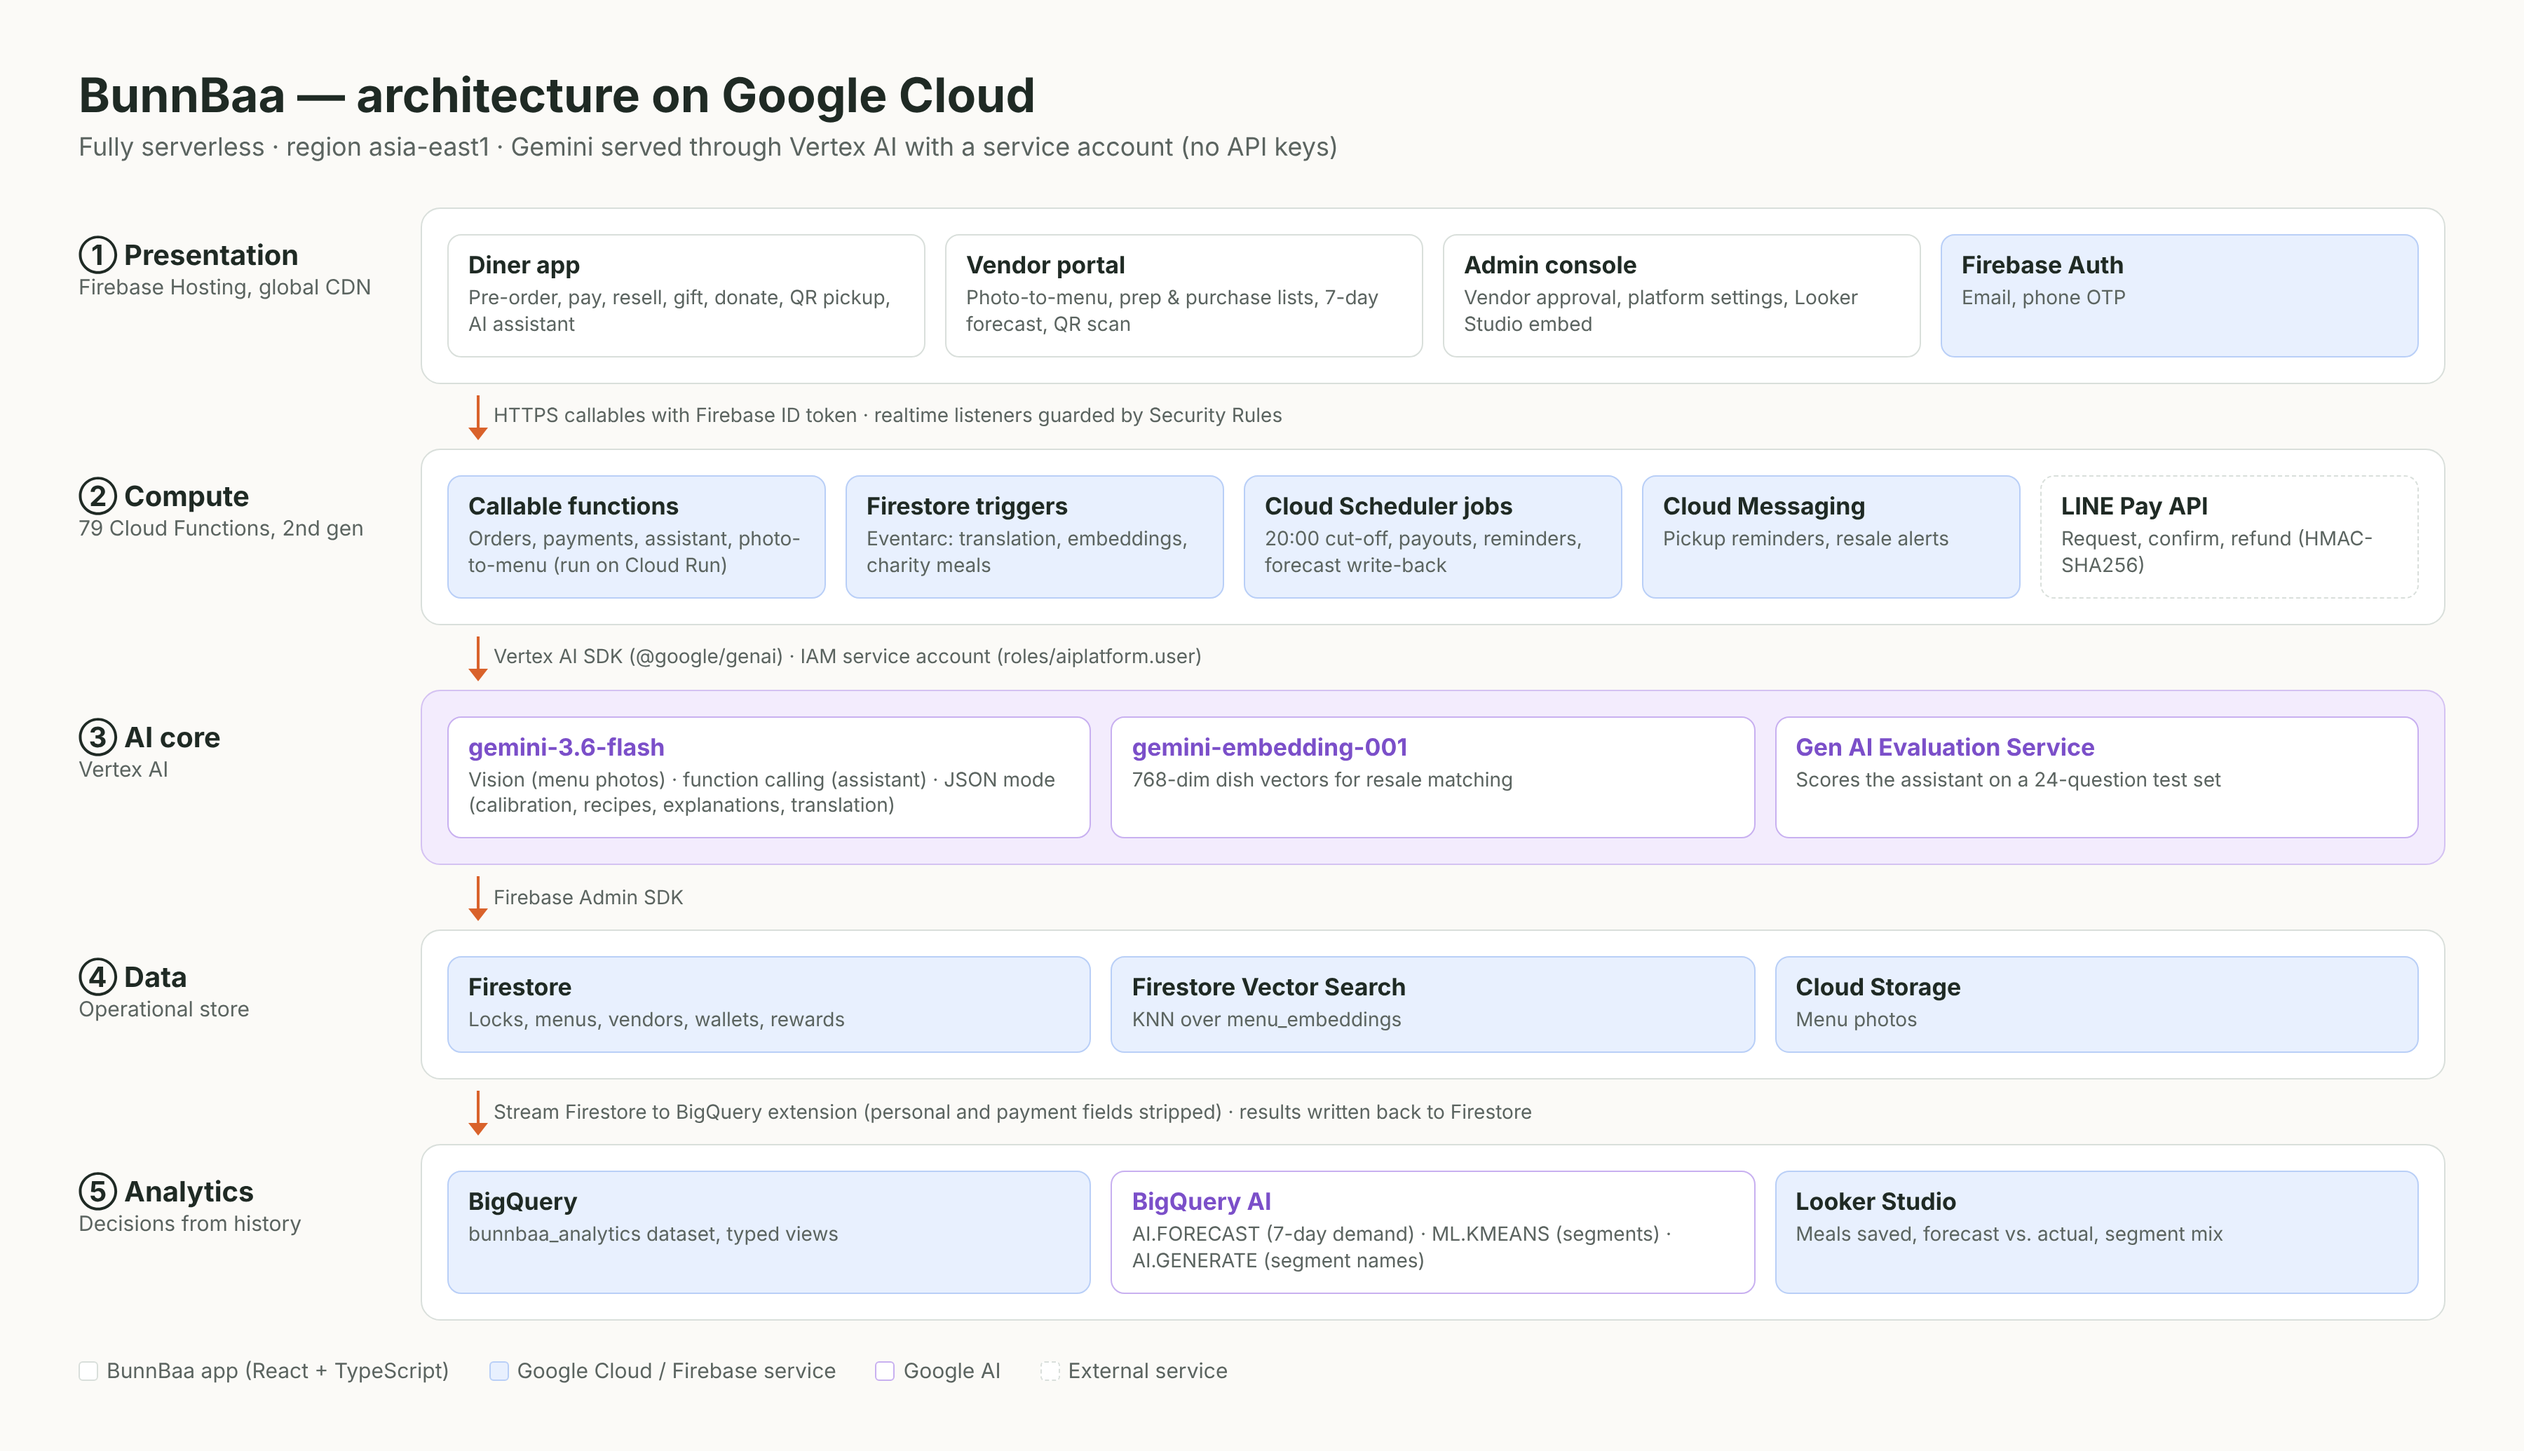
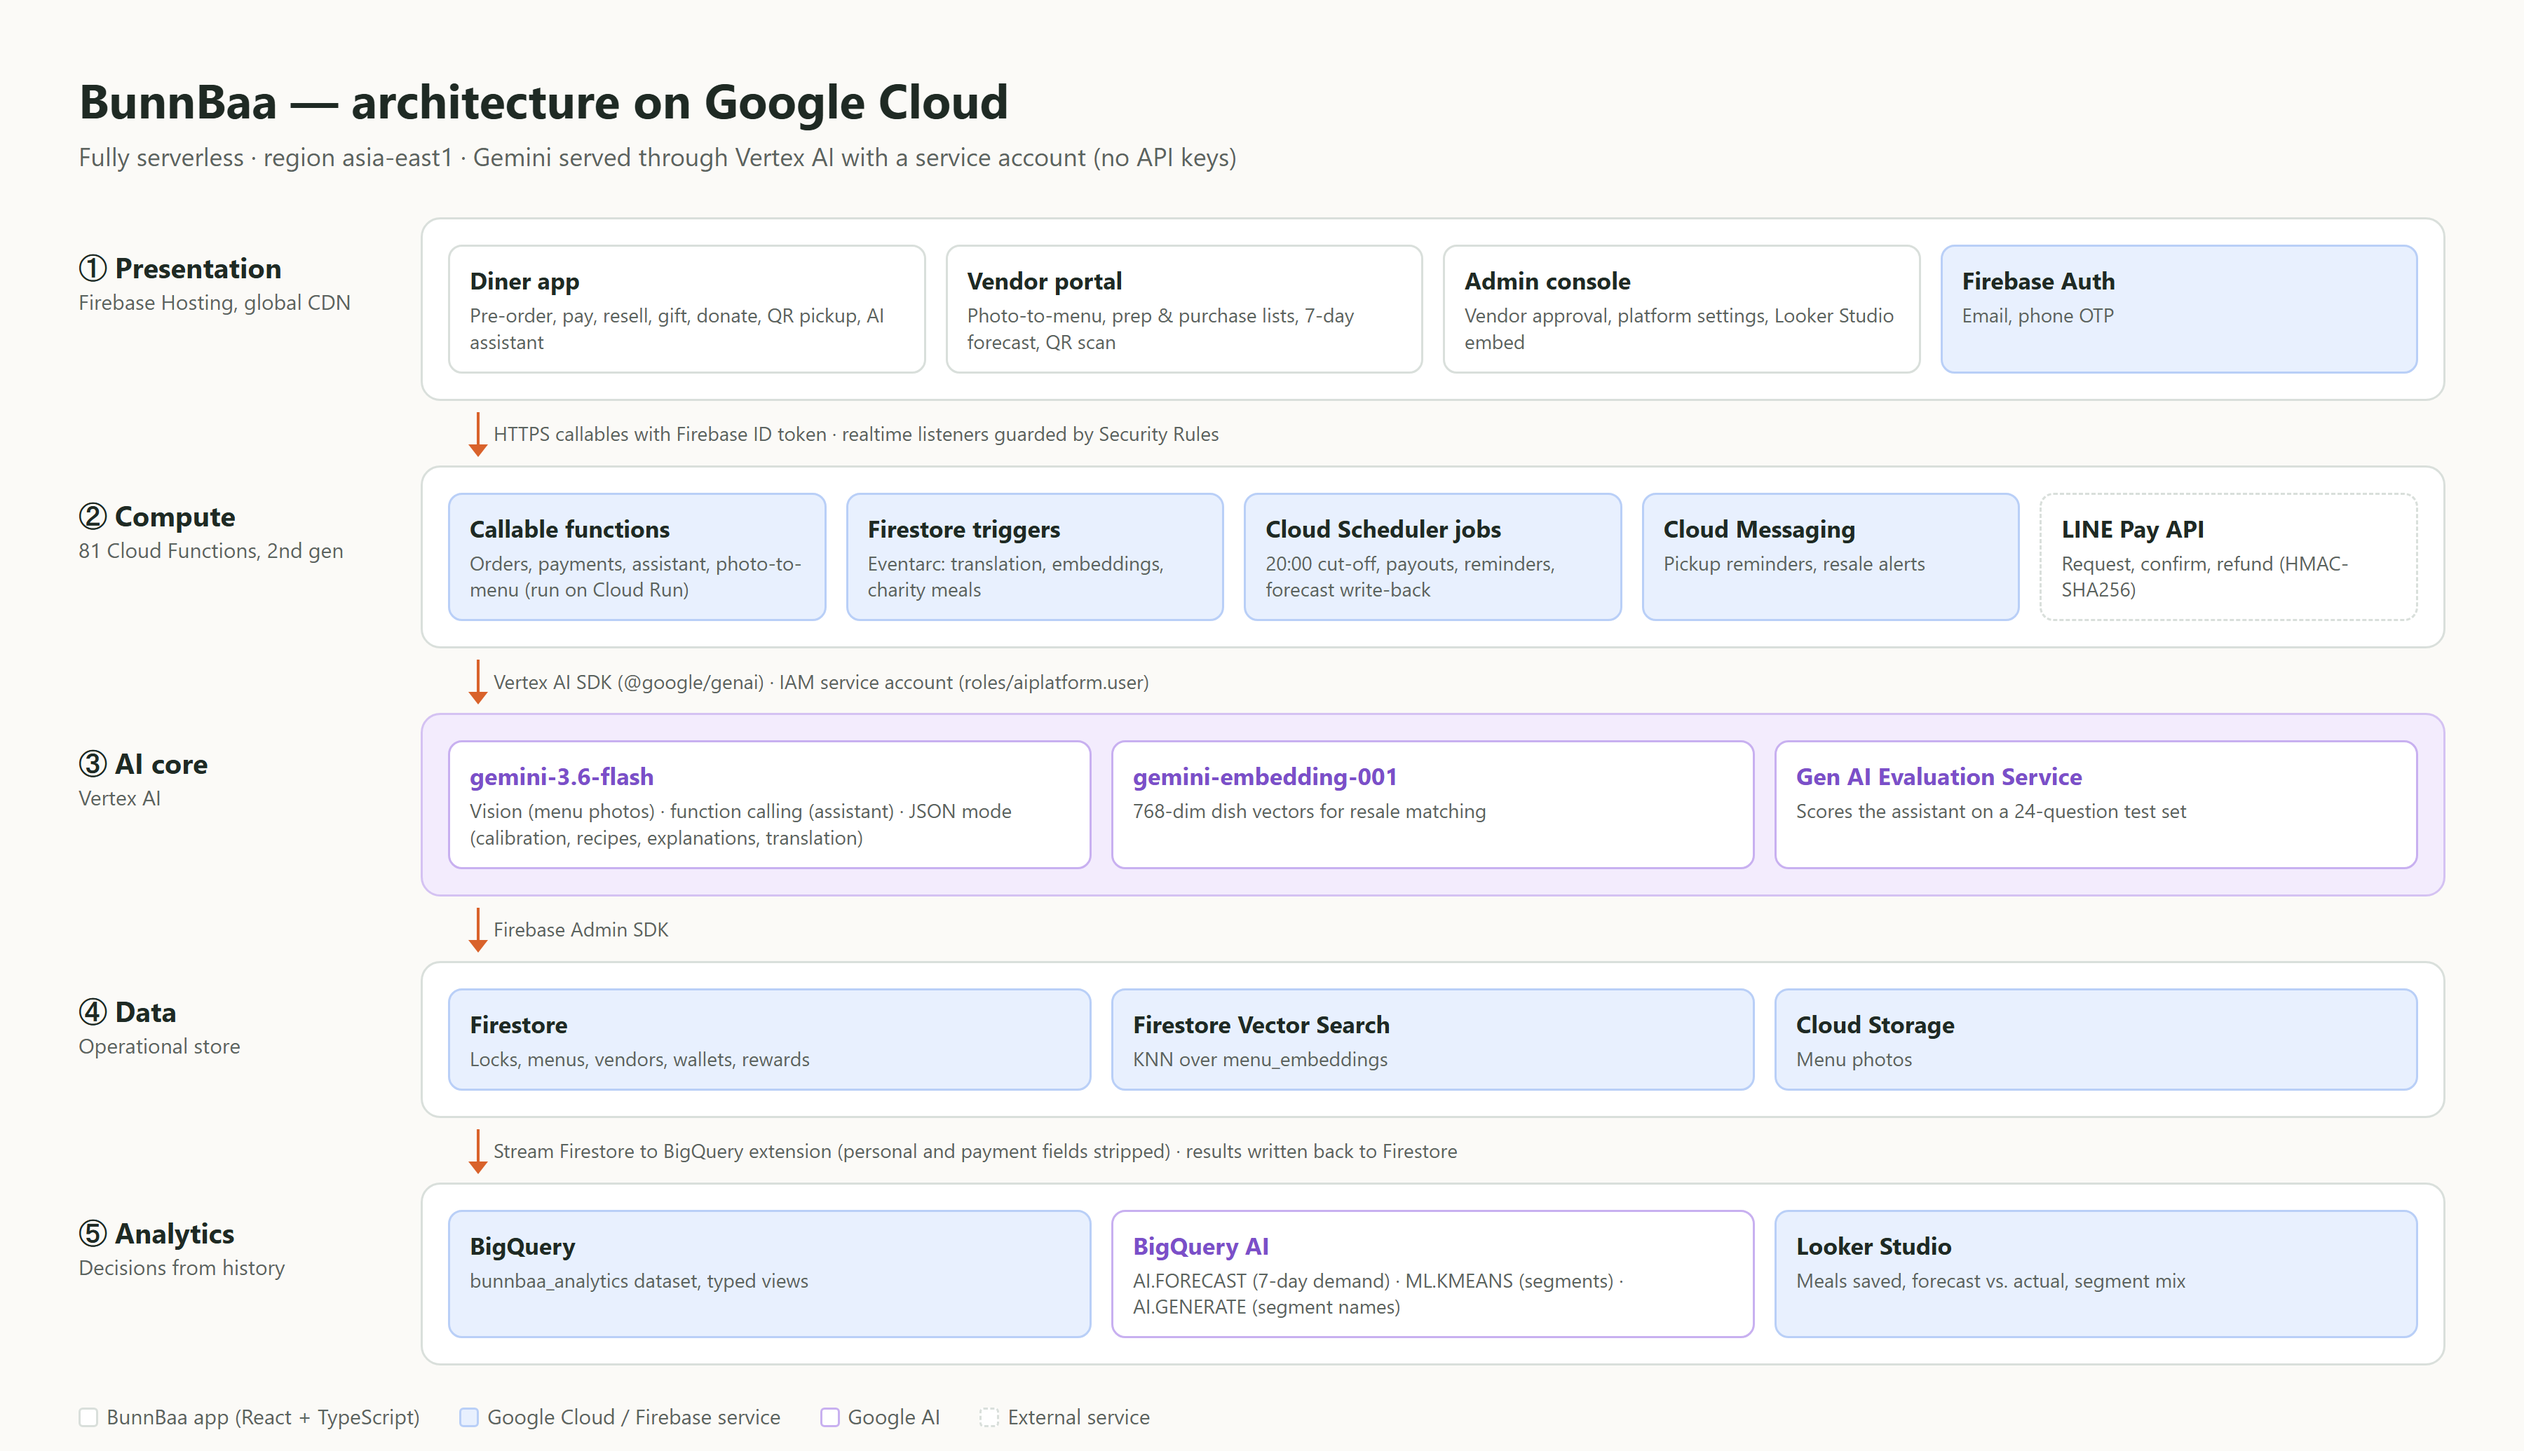
Align submission materials: 81 functions, new screenshots, vendor header fix
- Architecture diagram: Compute layer shows 81 Cloud Functions (was 79)
- README screenshots: pre-order menu with photos and Book, dish details with
  early-bird dates, and the vendor overview with this month's charts loaded
- README: mark the demo1234 accounts as emulator-only so they don't read as
  the live prototype's passwords
- Vendor card header: keep the name at least 12rem wide so the draw progress
  and View vendor link wrap below it on phones instead of squeezing the name
  to one word per line
- Design doc: forecast error now 5.7% WAPE over 16 days, labelled as demo data

diff --git a/assets/architecture.html b/assets/architecture.html
@@ -48,7 +48,7 @@
 
     <div class="arrow"><i></i>HTTPS callables with Firebase ID token · realtime listeners guarded by Security Rules</div>
 
-    <div class="label"><b>② Compute</b><span>79 Cloud Functions, 2nd gen</span></div>
+    <div class="label"><b>② Compute</b><span>81 Cloud Functions, 2nd gen</span></div>
     <div class="layer">
       <div class="box g"><b>Callable functions</b><span>Orders, payments, assistant, photo-to-menu (run on Cloud Run)</span></div>
       <div class="box g"><b>Firestore triggers</b><span>Eventarc: translation, embeddings, charity meals</span></div>

diff --git a/web/src/components/VendorCardHeader.tsx b/web/src/components/VendorCardHeader.tsx
@@ -15,7 +15,7 @@ export default function VendorCardHeader({ vendor, subtitle, reward }: { vendor:
           ? <img src={vendor.cover_image} alt="" loading="lazy" className="w-full h-full object-cover" />
           : <Store className="w-5 h-5 text-secondary-foreground/70" aria-hidden="true" />}
       </span>
-      <div className="min-w-0 flex-1">
+      <div className="min-w-[12rem] flex-1">
         <div className="flex items-center gap-2 flex-wrap">
           <h3 className="font-heading text-xl font-semibold">{name}</h3>
           {vendor.verified && (

diff --git a/README.md b/README.md
@@ -40,11 +40,11 @@ Payments run in the LINE Pay **sandbox**, so no real money moves.
 Diner app (mobile) and vendor portal, taken on the live prototype in English. Vendor and dish names are translated from Chinese by Gemini.
 
 <p>
-  <img src="assets/screenshots/diner-home.png" alt="Diner home" width="190">
-  <img src="assets/screenshots/diner-today.png" alt="Pre-order with early-bird prices" width="190">
+  <img src="assets/screenshots/diner-menu.png" alt="Pre-order: pick a date for 20% off, then Book" width="190">
+  <img src="assets/screenshots/diner-dish.png" alt="Dish details: early-bird price per date, add to cart" width="190">
   <img src="assets/screenshots/diner-my-meals.png" alt="A locked meal: show the pickup code, transfer or gift it" width="190">
 </p>
-<p><img src="assets/screenshots/vendor-dashboard.png" alt="Vendor portal overview" width="780"></p>
+<p><img src="assets/screenshots/vendor-dashboard.png" alt="Vendor portal overview: pickups, prep and this month's profit" width="780"></p>
 
 ## The problem
 
@@ -275,7 +275,7 @@ npm run dev:emulator:reset    # wipe local data and reload the seed data
 ```
 
 To call Vertex AI from the emulator, run `gcloud auth application-default login` first.
-Demo accounts (password `demo1234`): `customer@bunnbaa.test` (diner) and `vendor@bunnbaa.test` (vendor).
+Emulator demo accounts (password `demo1234`, local only; the live prototype uses the passwords in [Try it](#try-it)): `customer@bunnbaa.test` (diner) and `vendor@bunnbaa.test` (vendor).
 
 ### 4. Deploy
 

diff --git a/doc/AI與GoogleCloud設計.md b/doc/AI與GoogleCloud設計.md
@@ -135,7 +135,7 @@ flowchart LR
 
 ### 4.5 平台儀表板（Looker Studio）
 
-`bigquery/sql/02_dashboard.sql` 建立 `dash_daily_ops`、`dash_forecast_vs_actual`、`dash_forecast_next`、`dash_segments`。管理後台「平台儀表板」（`/admin/analytics`）呼叫 `getPlatformDashboard`（限管理員）即時查這四個 view，用 Recharts 畫總數卡、每日預訂與救回、預測 vs 實際、未來預估、客群表（英文介面用 `label_en`）。同一組 view 也接 Looker Studio 報表，頁面上有「在 Looker Studio 開啟」按鈕，網址存在 `platformConfig/analytics.lookerStudioEmbedUrl`。目前數字：3,659 份裡救回 408 份（轉讓 296＋愛心餐 112），全平台預測誤差（WAPE）6～15%。
+`bigquery/sql/02_dashboard.sql` 建立 `dash_daily_ops`、`dash_forecast_vs_actual`、`dash_forecast_next`、`dash_segments`。管理後台「平台儀表板」（`/admin/analytics`）呼叫 `getPlatformDashboard`（限管理員）即時查這四個 view，用 Recharts 畫總數卡、每日預訂與救回、預測 vs 實際、未來預估、客群表（英文介面用 `label_en`）。同一組 view 也接 Looker Studio 報表，頁面上有「在 Looker Studio 開啟」按鈕，網址存在 `platformConfig/analytics.lookerStudioEmbedUrl`。目前數字（原型 demo 資料：種子訂單加模擬需求，2026-10-13）：3,659 份裡救回 408 份（轉讓 296＋愛心餐 112），全平台隔日預測誤差近 16 天 WAPE 5.7%。
 
 ### 4.6 前端讀取格式
 

diff --git a/README.zh-TW.md b/README.zh-TW.md
@@ -40,11 +40,11 @@
 消費者端（手機）與商家後台，在正式站以英文介面截圖。店名、菜名由 Gemini 從中文翻成英文。
 
 <p>
-  <img src="assets/screenshots/diner-home.png" alt="Diner home" width="190">
-  <img src="assets/screenshots/diner-today.png" alt="Pre-order with early-bird prices" width="190">
+  <img src="assets/screenshots/diner-menu.png" alt="Pre-order: pick a date for 20% off, then Book" width="190">
+  <img src="assets/screenshots/diner-dish.png" alt="Dish details: early-bird price per date, add to cart" width="190">
   <img src="assets/screenshots/diner-my-meals.png" alt="A locked meal: show the pickup code, transfer or gift it" width="190">
 </p>
-<p><img src="assets/screenshots/vendor-dashboard.png" alt="Vendor portal overview" width="780"></p>
+<p><img src="assets/screenshots/vendor-dashboard.png" alt="Vendor portal overview: pickups, prep and this month's profit" width="780"></p>
 
 ## 要解決的問題
 
@@ -273,7 +273,7 @@ npm run dev:emulator:reset    # 清掉本機資料，重新灌種子資料
 ```
 
 要在 emulator 裡呼叫 Vertex AI，先執行 `gcloud auth application-default login`。
-測試帳號（密碼 `demo1234`）：`customer@bunnbaa.test`（顧客）、`vendor@bunnbaa.test`（店家）。
+emulator 測試帳號（密碼 `demo1234`，只限本機；線上版的密碼見[試用](#試用)）：`customer@bunnbaa.test`（顧客）、`vendor@bunnbaa.test`（店家）。
 
 ### 4. 部署
 
